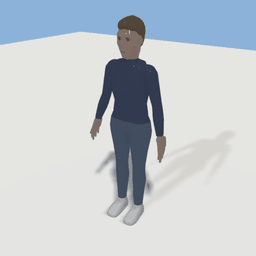
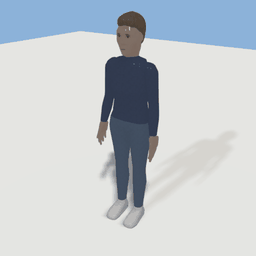
Arms hang naturally and skirts flare less; the built pose keeps clear_arms' swing (geogen.11.5.38.1)
- stand hangs the upper arms 8 degrees off the sides (was 16 for every
  body): clear_arms now swings them out only as far as a body needs (wide
  hips and skirts: 5-8 degrees), so slim people no longer stand like a
  cardboard cutout.
- build_humanoid leaves the character in its pose as that pose's clip has it
  (clear_arms' swing, drape morphs), not the raw pose spec: with the arms
  closer in, hourglass hands were 21 mm in the dress in the built pose.
- Skirt and dress hems flare less (hips_rx + 0.06 / 0.055, was 0.08 / 0.07).
  The waist-side rings and HIP_ROOM stay: tighter, a heavy body's hips and a
  masculine sweater show through (tried; noted in docs/clothing.md).

Default tier passes (3212); clipping/drape/arms/humanoid --all pass;
baseline: petite casual_f seated waist overlap 88.5 -> 76.7 mm.

diff --git a/src/geogen/generators/humanoid.py b/src/geogen/generators/humanoid.py
@@ -1023,7 +1023,12 @@ def build_humanoid(spec: dict, name: str, material_loader, assets_dir: Path, par
     if pose_name is not None:
         if pose_name not in poses:
             raise ValueError(f"'{name}': unknown pose '{pose_name}'. Poses: {sorted(poses)}")
-        Pose.from_spec(poses[pose_name], skeleton).apply(skeleton, nodes)
+        # As its clip has it: with the swing clear_arms gave the arms (and the drape's morphs).
+        clip = next((c for c in root.clips if c.name == f"pose_{pose_name}"), None)
+        if clip is not None:
+            clip.apply(root, 0.0)
+        else:
+            Pose.from_spec(poses[pose_name], skeleton).apply(skeleton, nodes)
     posed = Mesh.merge([n.world_mesh() for n in root.iter_nodes() if n.mesh is not None])
     lo, hi = posed.vertices.min(axis=0), posed.vertices.max(axis=0)
     root.size = np.array([2 * max(abs(lo[0]), abs(hi[0])), hi[1], 2 * max(abs(lo[2]), abs(hi[2]))])

diff --git a/docs/dev/characters.md b/docs/dev/characters.md
@@ -26,7 +26,7 @@ Humanoid bodies (`generators/humanoid.py`, `assets/characters/humanoid.yaml`): a
   - Tight garments take `ease: <m>` (stiffness): the torso's front, back and side outlines are rolled over by a ball of that radius, so a top spans the hollow under a bust instead of clinging to it (`ringloft._roll`; T-shirt 0.12, sweater 0.22; 0.3 already boxes out the hourglass).
   - Loose garments (`chains:`, e.g. skirt, dress) are shells like hair. `hug_body` moves a shell's walls out to the body under them plus a clearance (`HIP_ROOM` more round the hip joints), so one authored skirt fits every build. `weights: legs` (`leg_weights`) skins it: Hips at the waist (the start cap above the first key ring takes the body's spine weights), handing over round the hip joints to both thighs, half each with `LEG_SPLIT` (0.25) more of its own side's; `weights: body` is the older `transfer_weights`.
   - Drape (`generators/drape.py`, `docs/clothing.md`): pose correctives for a single-tube loose shell, with no cloth simulation. `drape_frame` re-shapes each ring of the outer wall in its own plane: it clears the convex hull of the posed pelvis/thighs' section by its rest clearance, keeps what looseness the skinned ring has left (none on top of a lap, never longer than the ring was cut), and seated nothing behind the knees is below the seat plane. `fit` drapes every static pose and sampled frames of every clip and bakes them to at most 8 morph targets `drape_<n>` on `clothes` (up to 3 static poses exact, then principal components), keyed by every clip's `morphs["clothes"]` track (weights -1..1). `meta.humanoid.drape` is the report (targets, per clip [largest correction, largest error] in mm); `meta.humanoid.shells` is what `drape.Draper(character, shells).positions(actor, seat)` needs to drape any posed instance unbaked.
-  - Arms (`generators/arms.py`, `docs/clothing.md`): `clear_arms` runs last in the build and swings each upper arm outward at the shoulder by what this body needs for its forearm and hand to clear the body and the draped shell, in every static pose (exact) and at sampled frames of every clip (spread over the neighbouring frames; a transition's ends take its static poses' swing). Only the UpperArm rotation keys change, and a pose that is clear already is untouched. `meta.humanoid.arms` is {clip: largest swing in degrees}; body option `clear_arms: false` turns it off. A draped skirt is probed through its rings (`_Tube`), not its triangles. It adds about 0.3 s to a build (0.45 s with a skirt). Tests: `tests/test_arms.py`.
+  - Arms (`generators/arms.py`, `docs/clothing.md`): poses are authored for a slim body (`stand` hangs the upper arms 8° off the sides) and `clear_arms` adapts them: it runs last in the build and swings each upper arm outward at the shoulder by what this body needs for its forearm and hand to clear the body and the draped shell, in every static pose (exact) and at sampled frames of every clip (spread over the neighbouring frames; a transition's ends take its static poses' swing). Only the UpperArm rotation keys change, and a pose that is clear already is untouched. The built character is left in its `pose` as that pose's clip has it (the swing included), not as the raw pose spec. `meta.humanoid.arms` is {clip: largest swing in degrees}; body option `clear_arms: false` turns it off. A draped skirt is probed through its rings (`_Tube`), not its triangles. It adds about 0.3 s to a build (0.45 s with a skirt). Tests: `tests/test_arms.py`.
   - The waist (geogen.11.5.19): garments declare `part: top | bottom | dress | shoes`. `lap_waist` makes a top and a bottom overlap by `WAIST_OVERLAP` (3 cm) as geometry: a tight bottom's span runs on up under the top's hem, and a top's hem comes down under a loose bottom's waistband (`meta.humanoid.waist_overlap`). The leg chain has `root: Hips`: the tube above the hip joint is pelvis and stays put when the thigh swings (it used to swing out behind a seated body, taking the top's hem with it). A top covers the thigh tubes' tops with `leg: [[LeftUpperLeg, -1.0], {level: torso}]` (level with its torso hem). `smooth_hem` runs after decimation: teeth in the top's waist hem go to the other side, hem vertices are levelled, and the hem takes trunk weights only, so it is one smooth loop that follows the pelvis. `meta.humanoid.garments` lists what is worn with each garment's vertices.
   - A dressed character is about 6.3-7.1k triangles with its hair, up to ~8k with a skirt (~1.1k, dense enough to drape; trunk and limbs `max_triangles: 2400`, the sculpted head ~1.3k, the hands ~0.9k each); a build takes about 0.9 s in trousers, 1.3 s in a skirt (`clear_arms` ~0.3 s, ~0.45 s with a skirt; `drape.fit` ~0.25 s); crowd LODs are geogen.11.5.27.
   - Shoes take a `sole: {height, color, material}`: after decimation, `build_sole` takes the outline of the shoe's bottom (convex hull of the foot's vertices near the floor, 2.5 mm proud), extrudes it from just above the shoe's lowest point to `height` with a chamfered tread edge, in its own colour slot (the shoe's material), skinned from the nearest shoe vertices, mirrored, and unions it on. Sneakers: a white 2 cm sole; boots black 1.8 cm; flats brown 8 mm.

diff --git a/docs/clothing.md b/docs/clothing.md
@@ -228,7 +228,8 @@ In order. The first four are earlier work, from the commit history and the task 
 4. **Room at the hips** (30332bf): `HIP_ROOM` in `hug_body` and extra rings (`samples`) where the
    skirt bends. This closed the waist in most poses; three builds kept a sliver of thigh at the
    hip crease. The extra rings are gone again (the shell is evenly dense now); `HIP_ROOM` is still
-   there and may no longer be needed.
+   there, and is still needed: without it a heavy body's hips show through a skirt (tried
+   2026-10-19, geogen.11.5.38.1).
 5. **The geometric drape** (this work). Things tried inside it and dropped:
    - *Looseness measured from the rest pose* (the hull plus what the ring had to spare at rest).
      A leg that swings forward then pushes the cloth as far forward again as it was loose,

diff --git a/docs/catalogue/assets/humanoid.md b/docs/catalogue/assets/humanoid.md
@@ -70,7 +70,7 @@ place:
 
 ## Size
 
-0.708 x 1.742 x 0.39 m (x, y, z); geometry (-0.354, -0.009, -0.123) to (0.354, 1.742, 0.195) from the origin; 6924 triangles
+0.533 x 1.742 x 0.39 m (x, y, z); geometry (-0.267, -0.009, -0.123) to (0.267, 1.742, 0.195) from the origin; 6924 triangles
 
 ## Presets
 
